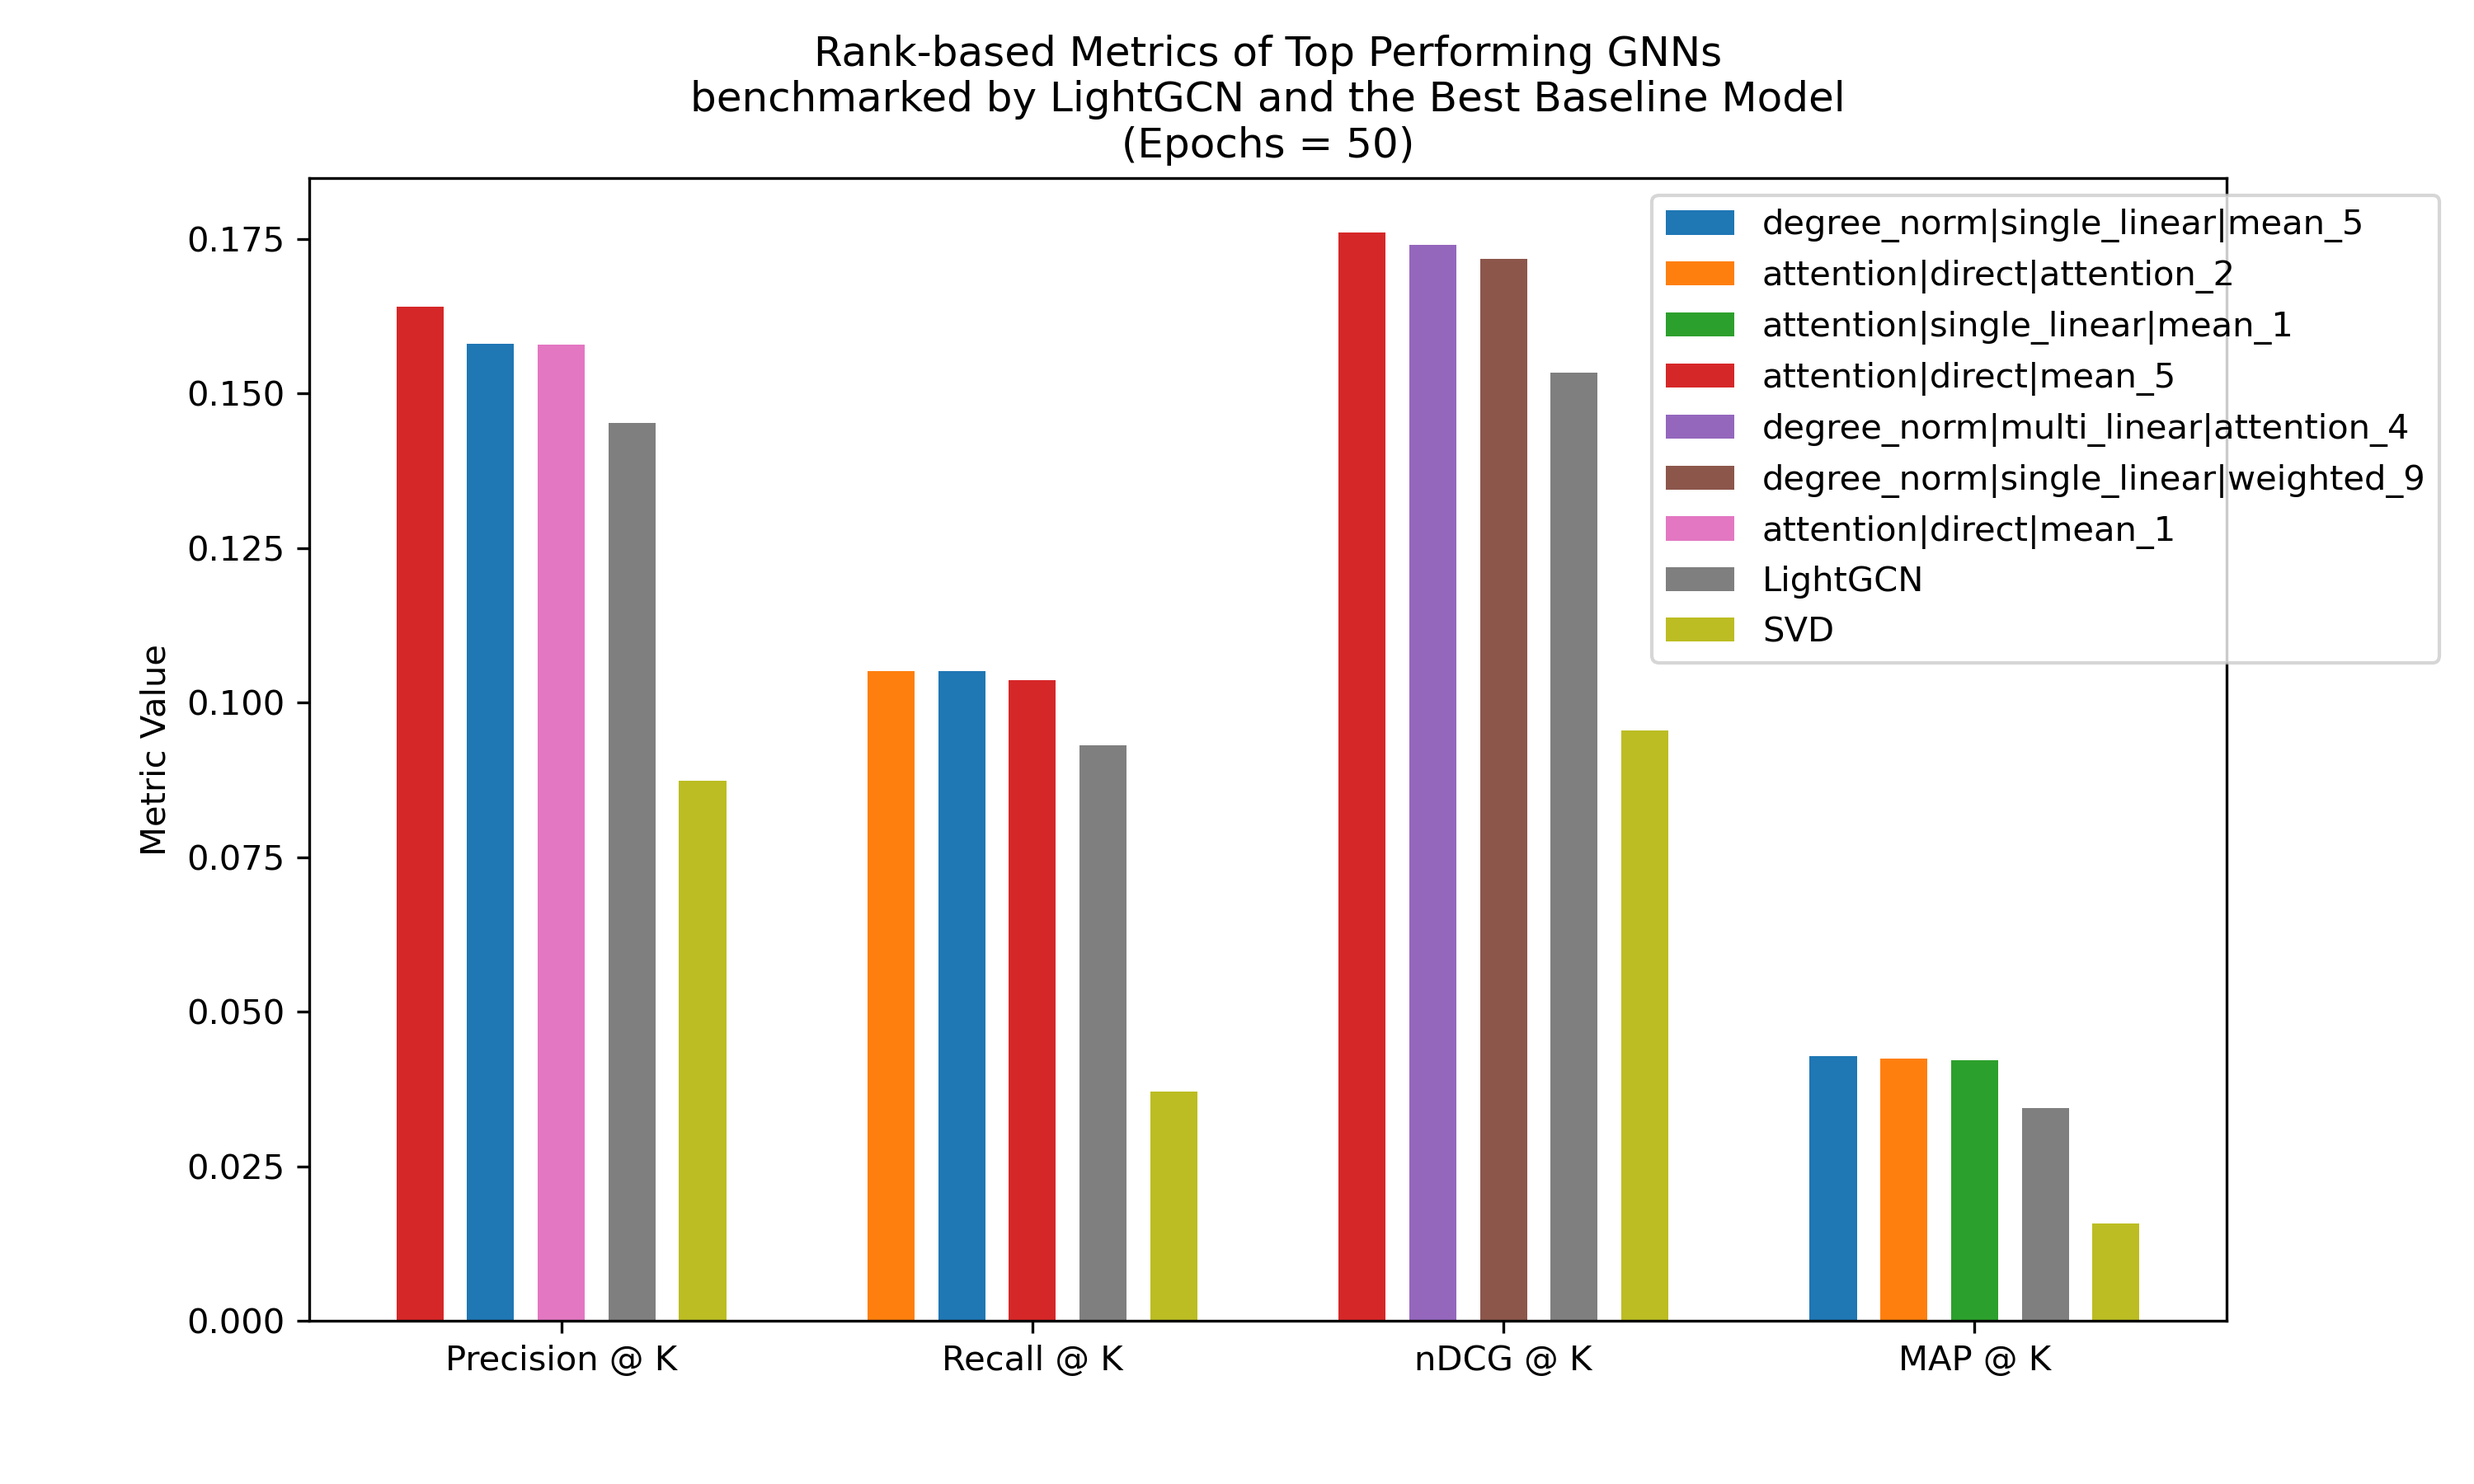
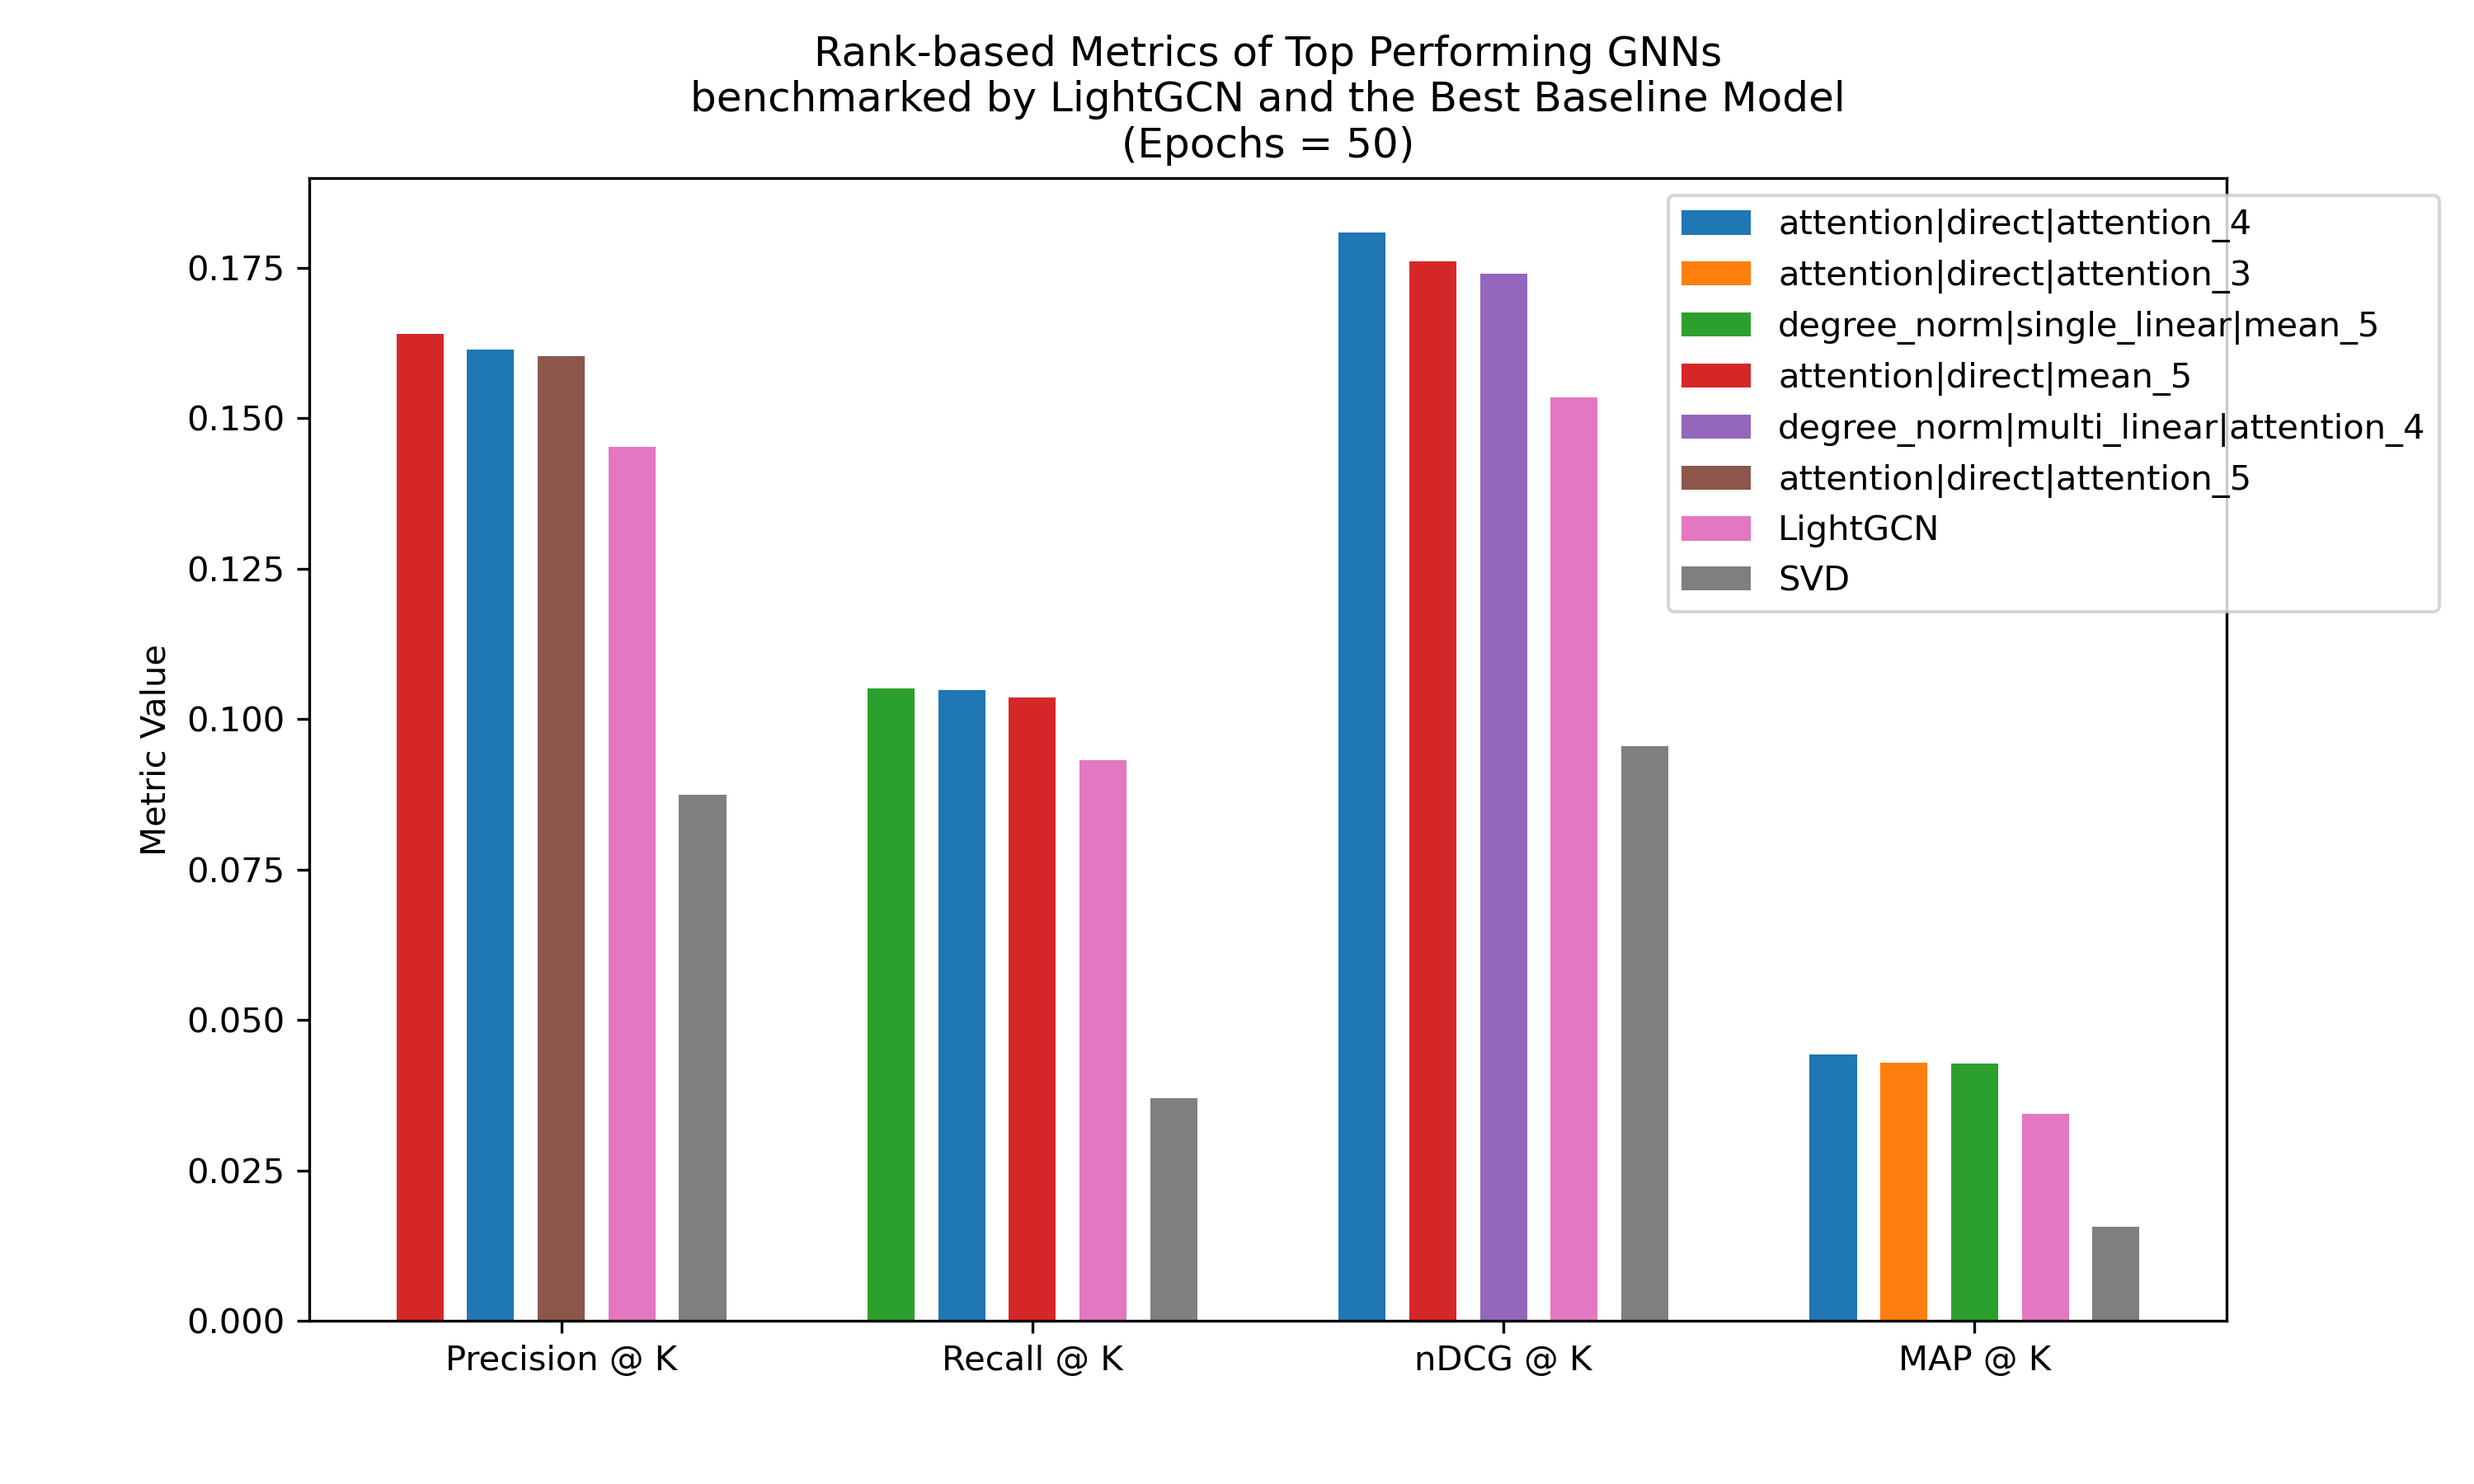
Implement plotting for the different algorithms in each component, assuming naive implementation of the other components

diff --git a/gnn/plot.py b/gnn/plot.py
@@ -5,6 +5,7 @@ import os
 import pickle
 from collections import defaultdict
 from heapq import heappush, heappop
+from copy import deepcopy
 
 
 def load_metrics(metrics_dir):
@@ -58,12 +59,28 @@ def get_best_baseline(model_2_metrics: Dict[str, Dict[str, float]]):
     }
 
 
+def _ensure_and_get_unique_epoch(model_2_metrics: Dict[str, Dict[str, float]]):
+    """
+    Ensures all models were trained for the same number of epochs
+    and get this unique epoch
+    """
+    unique_epochs = set(metrics['epochs'] for metrics in model_2_metrics.values())
+    assert len(unique_epochs) == 1
+    unique_epochs = unique_epochs.pop()
+    # delete epoch key from metrics
+    for model in model_2_metrics:
+        unqiue_epoch = model_2_metrics[model].pop('epochs')
+    return unqiue_epoch
+
+
 def plot_top_models_and_baselines(
     model_2_metrics: Dict[str, Dict[str, float]],
     n = 3,
     save_path=None
 ):
     """Plots the top N GNNs, LightGCN, and the best baseline for each metric"""
+    model_2_metrics = deepcopy(model_2_metrics) # defensive copy
+    
     metric_display_names = ['Precision @ K', 'Recall @ K', 'nDCG @ K', 'MAP @ K']
     metric_names = ['precision', 'recall', 'ndcg', 'map']
 
@@ -77,13 +94,7 @@ def plot_top_models_and_baselines(
     fig, ax = plt.subplots()
     fig.set_size_inches(10, 6)
     
-    # ensures all models were trained for the same number of epochs
-    unique_epochs = set(model['epochs'] for model in model_2_metrics.values())
-    assert len(unique_epochs) == 1
-    unique_epochs = unique_epochs.pop()
-    # delete epoch key from metrics
-    for model in model_2_metrics:
-        model_2_metrics[model].pop('epochs')
+    unique_epochs = _ensure_and_get_unique_epoch(model_2_metrics)
 
     metric_2_top_models = get_top_models(model_2_metrics, n=n)
     top_model_2_metrics = defaultdict(dict)
@@ -130,6 +141,83 @@ def plot_top_models_and_baselines(
     if save_path is not None:
         fig.savefig(save_path, dpi=300)
 
+
+def get_architectures(component: str = 'info_updater', seed: int = 0):
+    """
+    Returns a list of architectures for the given component, where each architecture
+    is a tuple of the form (architecture, algorithm)
+    """
+    algorithms = {
+        'neighbor_aggregator': ['degree_norm', 'attention'],
+        'info_updater': ['direct', 'single_linear', 'multi_linear'],
+        'final_node_repr': ['mean', 'concat', 'weighted', 'attention']
+    }
+    if component == 'neighbor_aggregator':
+        architectures = [
+            (f'{algo}|direct|mean_{seed}', algo)
+            for algo in algorithms[component]
+        ]
+    elif component == 'info_updater':
+        architectures = [
+            (f'degree_norm|{algo}|mean_{seed}', algo)
+            for algo in algorithms[component]
+        ]
+    elif component == 'final_node_repr':
+        architectures = [
+            (f'degree_norm|direct|{algo}_{seed}', algo)
+            for algo in algorithms[component]
+        ]
+    else:
+        raise ValueError(f'Invalid component: {component}')
+
+    return architectures
+
+
+def plot_metrics_by_algorithms(
+    model_2_metrics: Dict[str, Dict[str, float]],
+    component: str = 'info_updater',
+    save_path=None
+):
+    model_2_metrics = deepcopy(model_2_metrics) # defensive copy
+    
+    architectures = get_architectures(component)
+    
+    metric_display_names = ['Precision @ K', 'Recall @ K', 'nDCG @ K', 'MAP @ K']
+    metric_names = ['precision', 'recall', 'ndcg', 'map']
+    component_display_names = {
+        'neighbor_aggregator': 'Neighbor Aggregator',
+        'info_updater': 'Information Update',
+        'final_node_repr': 'Final Node Representation'
+    }
+    
+    x = np.arange(len(metric_display_names)) * 8  # the metric locations
+    metric_width = len(architectures) / 2  # the width of each metric
+    bar_width = 1  # the width of each bar
+    delta = np.linspace(-metric_width, metric_width, len(architectures))
+    
+    unique_epochs = _ensure_and_get_unique_epoch(model_2_metrics)
+    
+    fig, ax = plt.subplots()
+    fig.set_size_inches(10, 6)
+    
+    for i, (architecture, algorithm) in enumerate(architectures):
+        metrics = model_2_metrics[architecture]
+        plt.bar(
+            x + delta[i],
+            [metrics[name] for name in metric_names],
+            width=bar_width,
+            label=algorithm
+        )
+    
+    ax.set_ylabel('Metric Value')
+    ax.set_title(f'Rank-based Metrics of Algorithms in {component_display_names[component]}\n(Epochs = {unique_epochs})')
+    ax.set_xticks(x, metric_display_names)
+    ax.legend(loc='upper right')
+    
+    if save_path is not None:
+        fig.savefig(save_path, dpi=300)
+
+
 if __name__ == "__main__":
     METRICS_DIR = 'gnn/outputs/100k/metrics'
     PLOT_DIR = 'gnn/outputs/100k/plots'
@@ -137,3 +225,6 @@ if __name__ == "__main__":
     
     model_2_metrics = load_metrics(METRICS_DIR)
     plot_top_models_and_baselines(model_2_metrics, save_path=f'{PLOT_DIR}/ranking_metrics.png')
+    plot_metrics_by_algorithms(model_2_metrics, component='neighbor_aggregator', save_path=f'{PLOT_DIR}/neighbor_aggregator.png')
+    plot_metrics_by_algorithms(model_2_metrics, component='info_updater', save_path=f'{PLOT_DIR}/info_updater.png')
+    plot_metrics_by_algorithms(model_2_metrics, component='final_node_repr', save_path=f'{PLOT_DIR}/final_node_repr.png')
